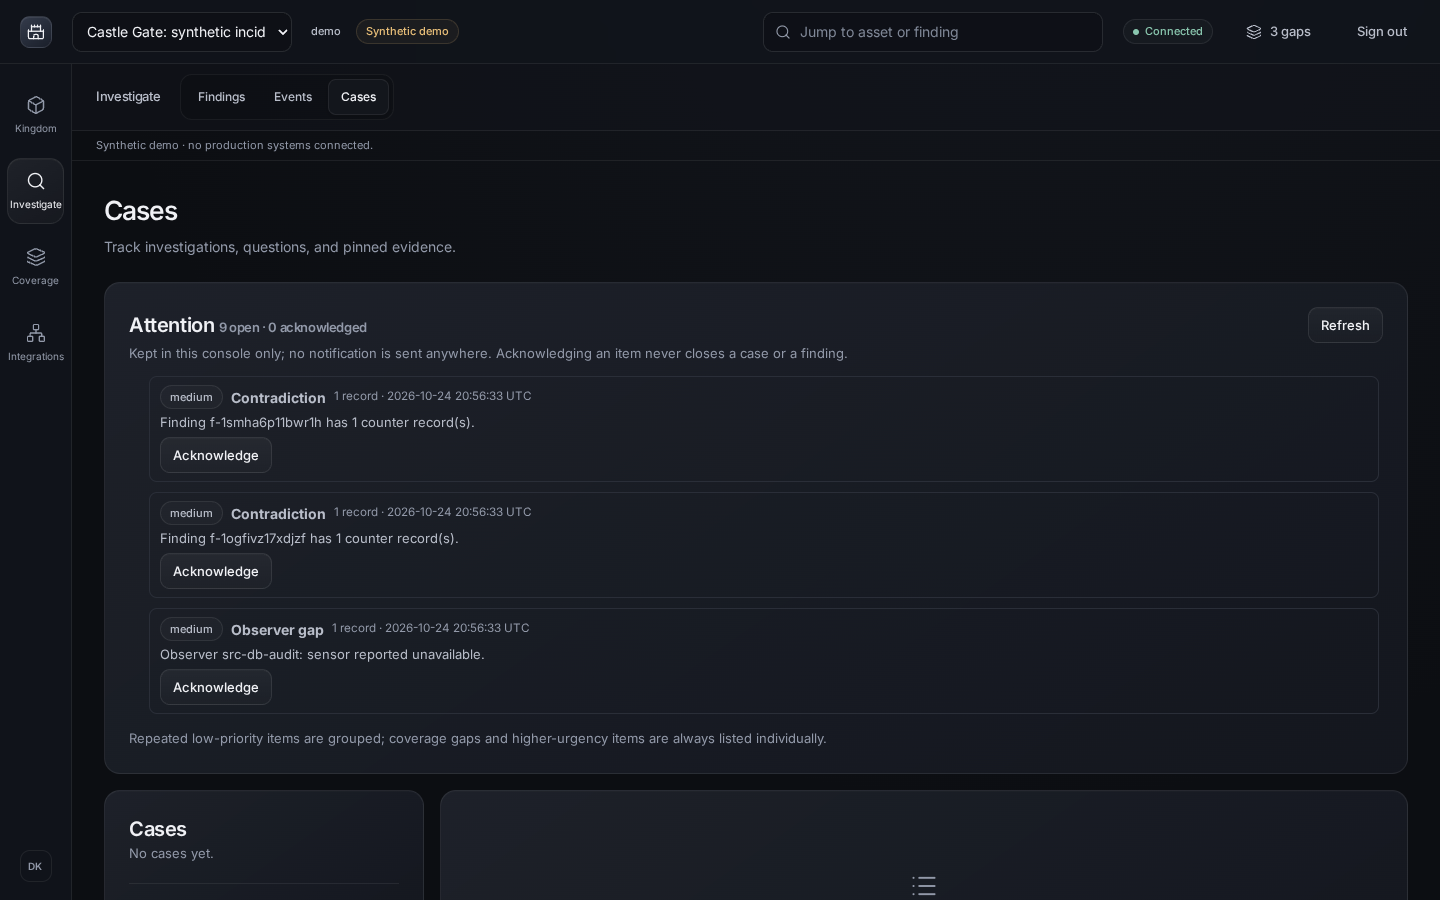
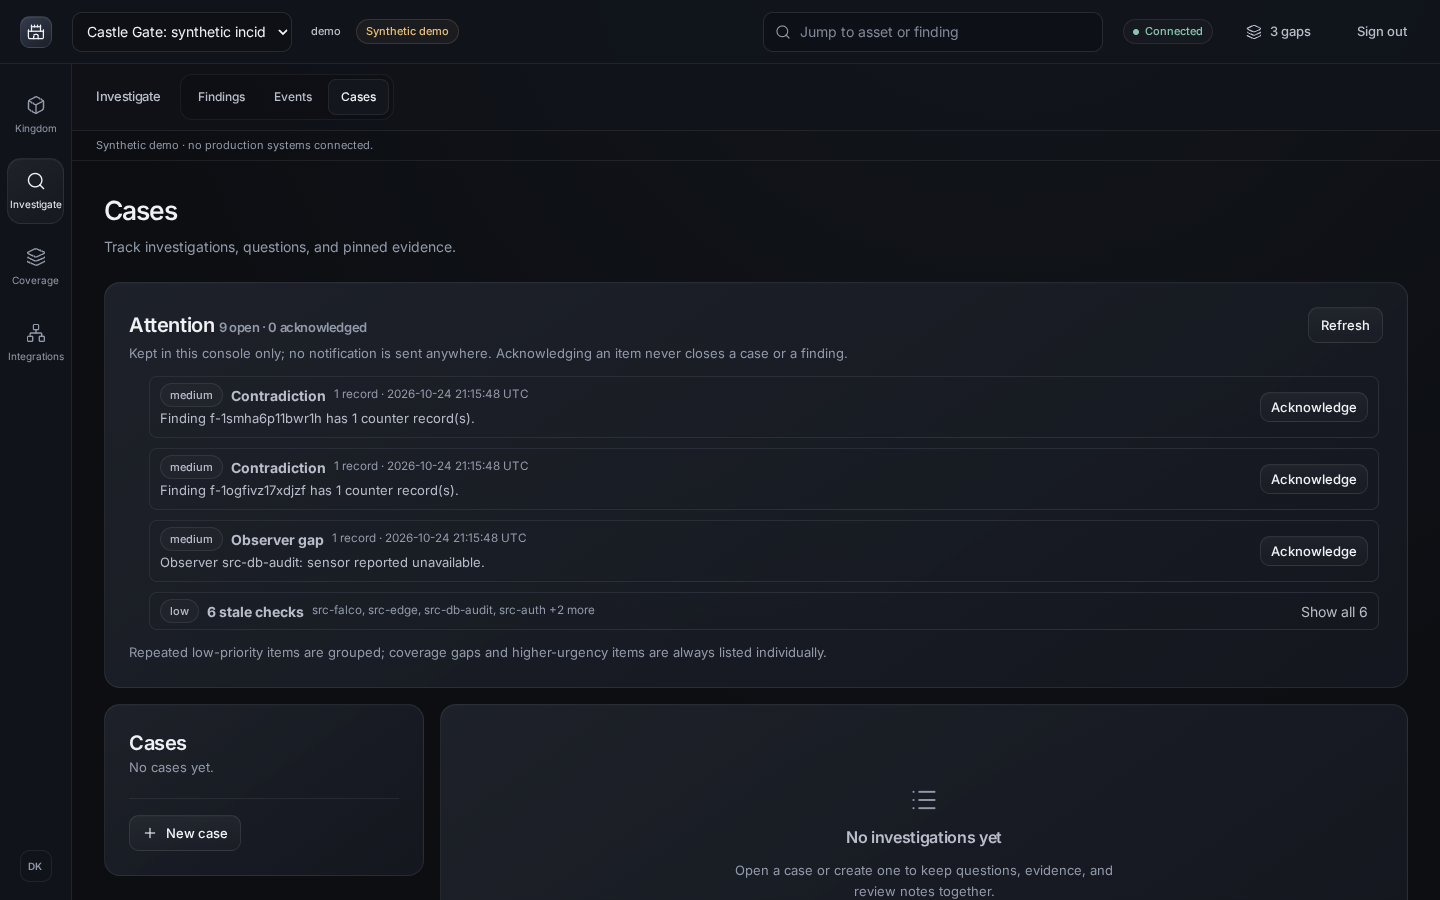
next-C: recapture case-workspace after screenshots at 9080c20 (denser cards, compact stale-check group)

diff --git a/docs/phases/local-intelligence/receipts/next-C.md b/docs/phases/local-intelligence/receipts/next-C.md
@@ -41,8 +41,10 @@ STATUS.json intentionally not edited. No model/provider calls. Web UI only (apps
 - before-lp17-f15-mixed-world.png, before-lp30-case-workbench-desktop.png — copied unchanged from the review captures at b0b4a20 (hashes match review meta).
 - after-f15-active-environment.png (commit 8fc2e72 build) — default frame on env `demo`; populated region fills the stage.
 - after-f15-realm-overview.png (8fc2e72) — explicit overview; the compiled environment gap is still visible here.
-- after-cases-attention-compact-no-case.png, after-cases-case-focus.png (db1ea8a build, i.e. before the denser-card CSS
-  of 8fc2e72) — the stale-check group row sits below three medium cards inside the scrolling queue in these captures.
+- after-cases-attention-compact-no-case.png, after-cases-case-focus.png (9080c20 build, recaptured once load dropped;
+  the e2e test passed on that run) — 9 open items: 3 medium cards (2 contradictions, 1 observer gap) stay individual;
+  6 low stale checks collapse to one row "6 stale checks … Show all 6"; with a case open, its question and next action
+  sit at the top of the first viewport. Viewed: no text overflow or clipping.
 
 ## CI
 - 40132161201 (8fc2e72): check failed in `examples/reference-app/e2e.test.ts` ("expected +0 to be 10" — SDK flush
@@ -54,4 +56,4 @@ STATUS.json intentionally not edited. No model/provider calls. Web UI only (apps
   (packages/scene-compiler compile.ts `environmentStride`); compacting it would move pinned layouts and digests, so the
   explicit Realm overview still shows the empty gap. A presentation-only realm layout (or a reviewed reflow) is the next step.
 - Implicit framing is not applied to grouped (>50 room) scenes.
-- Case screenshots predate the denser card CSS; recapture when the machine is idle.
+- Before-case capture (review) had no case open; the after pair shows both states. The review's LP30 view itself is not re-captured by the LP30 suite here.
